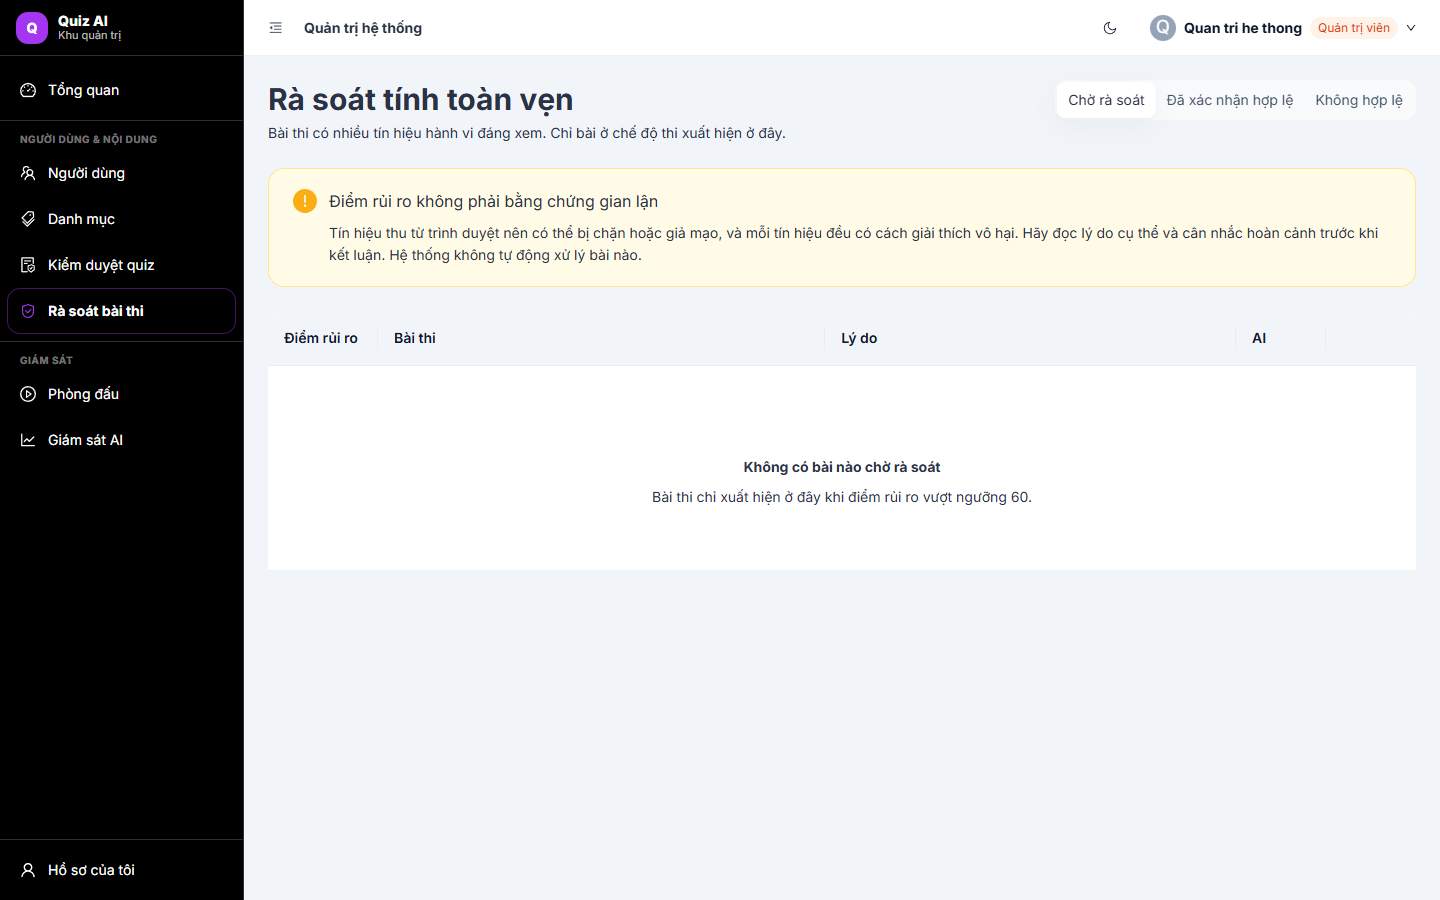
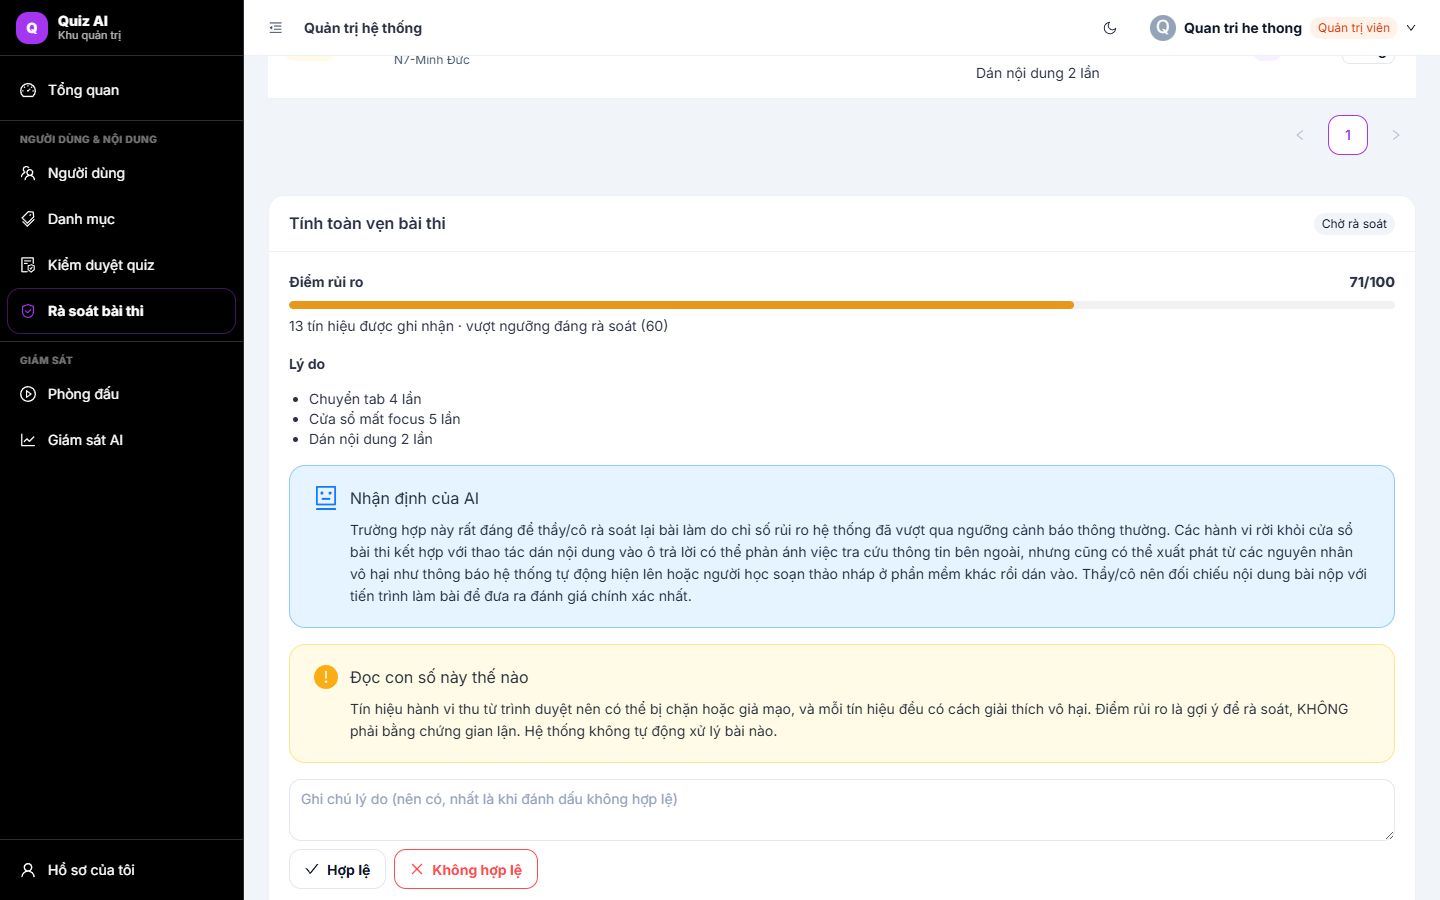
docs(bao-cao): hai màn cuối hết rỗng, 17 hình Chương 3 đều có dữ liệu thật
hinh-3.10 và hinh-3.16 trước đây CÓ tệp nhưng là màn rỗng — nhìn như tính
năng chưa làm xong, mà lại không phải khung xám nên lướt qua sẽ tưởng đã đủ.

3.16 rà soát bài thi: người dùng làm một bài ở chế độ thi nghiêm ngặt rồi
chuyển tab và dán nội dung, sinh ra bản ghi rủi ro 71/100 vượt ngưỡng 60.
Script nay bấm "Xem" rồi cuộn tới thẻ chi tiết — thẻ mở BÊN DƯỚI bảng nên
không cuộn thì ảnh cắt mất đúng phần chú thích hình đòi: nhận định của mô
hình và hai nút kết luận.

3.10 thẻ ghi nhớ: tạo bộ thẻ cho hs1.demo qua API thật. Một thẻ sinh bằng
`cards/from-wrong-answers` (không gọi mô hình — nội dung đã có trong CSDL),
sáu thẻ khái niệm thêm tay. Đổi tên bộ từ "Ôn lại câu đã sai" sang "Cơ sở dữ
liệu và Web" vì chỉ 1/7 thẻ đến từ câu sai, để tên không nói quá nội dung.
Ảnh ghép danh sách bộ thẻ với phiên ôn đã lật thẻ, vì chú thích đòi cả bốn
nút tự đánh giá mức nhớ.

Tách hàm ghepDoc dùng chung cho 3.6 và 3.10.

diff --git a/bao-cao-datn/build/gen-screens.js b/bao-cao-datn/build/gen-screens.js
@@ -160,6 +160,24 @@ async function luotDaChamAI() {
   throw new Error("không có lượt nào đã được AI chấm — làm một bài có câu tự luận rồi chạy lại");
 }
 
+/** Ghép dọc hai ảnh cùng bề rộng thành một, chừa vạch trắng phân cách. */
+async function ghepDoc(tren, duoi, ra) {
+  const a = sharp(tren);
+  const b = sharp(duoi);
+  const ma = await a.metadata();
+  const mb = await b.metadata();
+  const KE = 10;
+  await sharp({ create: { width: ma.width, height: ma.height + mb.height + KE, channels: 3, background: "#ffffff" } })
+    .composite([
+      { input: await a.toBuffer(), top: 0, left: 0 },
+      { input: await b.toBuffer(), top: ma.height + KE, left: 0 },
+    ])
+    .png()
+    .toFile(ra);
+  fs.unlinkSync(tren);
+  fs.unlinkSync(duoi);
+}
+
 /** Đăng nhập bằng API cho một tài khoản bất kỳ. */
 async function token(tk) {
   const r = await fetch(`${API}/auth/login`, {
@@ -235,9 +253,26 @@ async function main() {
     await chup(hs, "3.9");
   });
 
-  await man("3.10", "Thẻ ghi nhớ", async () => {
-    await toi(hs, "/flashcards", 2000);
-    await chup(hs, "3.10");
+  /* Chú thích hình đòi CẢ danh sách bộ thẻ (kèm số thẻ đến hạn) LẪN phiên ôn (thẻ lật được, bốn nút
+   * tự đánh giá mức nhớ), nên chụp hai màn rồi ghép dọc — cùng cách làm với hình phòng đấu. */
+  await man("3.10", "Thẻ ghi nhớ và phiên ôn tập", async () => {
+    await toi(hs, "/flashcards", 2200);
+    const t1 = path.join(ASSETS, "_tmp-3.10-ds.png");
+    await hs.screenshot({ path: t1 });
+
+    await toi(hs, "/flashcards/review", 2500);
+    // Lật thẻ để lộ mặt sau và bốn nút tự đánh giá
+    await hs.evaluate(() => {
+      const b = [...document.querySelectorAll("button")].find((e) => /Lật thẻ|Xem đáp án|Hiện mặt sau/i.test(e.textContent ?? ""));
+      b?.click();
+    });
+    await nghi(1200);
+    const t2 = path.join(ASSETS, "_tmp-3.10-on.png");
+    await hs.screenshot({ path: t2 });
+
+    await ghepDoc(t1, t2, path.join(ASSETS, "hinh-3.10.png"));
+    console.log(`  ✓ hinh-3.10.png  (${fs.statSync(path.join(ASSETS, "hinh-3.10.png")).size} bytes, ghép 2 ảnh)`);
+    xong.push("3.10");
   });
 
   await man("3.12", "Thành tích và xếp hạng mùa", async () => {
@@ -393,8 +428,23 @@ async function main() {
     await chup(qt, "3.15");
   });
 
+  /* Bấm "Xem" để mở thẻ chi tiết: chú thích hình đòi có nhận định của mô hình và hai nút kết luận,
+   * mà chúng chỉ hiện sau khi mở một dòng cụ thể. Danh sách rỗng thì bỏ qua bước bấm. */
   await man("3.16", "Báo cáo tính toàn vẹn", async () => {
-    await toi(qt, "/admin/integrity", 2500);
+    await toi(qt, "/admin/integrity", 2800);
+    await qt.evaluate(() => {
+      const b = [...document.querySelectorAll("button")].find((e) => /^\s*Xem\s*$/.test(e.textContent ?? ""));
+      b?.click();
+    });
+    await nghi(2000);
+    // Thẻ chi tiết mở ra BÊN DƯỚI bảng nên nằm ngoài màn hình đầu; không cuộn thì ảnh cắt mất đúng
+    // phần chú thích hình đòi — nhận định của mô hình và hai nút kết luận.
+    await qt.evaluate(() => {
+      const el = [...document.querySelectorAll("*")].find((e) => /^Tính toàn vẹn bài thi$/.test((e.textContent ?? "").trim()) && e.children.length === 0);
+      el?.scrollIntoView({ block: "start" });
+      window.scrollBy(0, -90);
+    });
+    await nghi(1200);
     await chup(qt, "3.16");
   });
 
